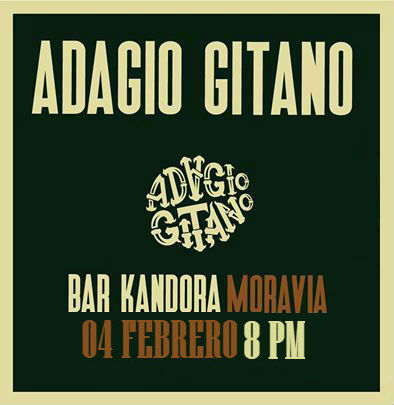
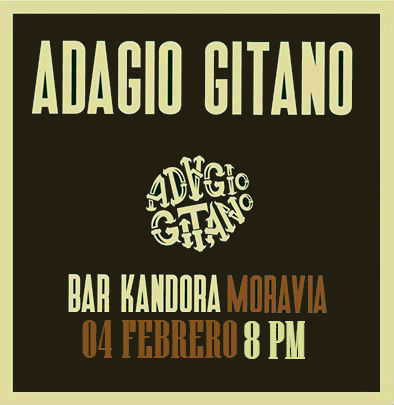
afiche/kandora.jpg se modifica para ser visto en cualquier dispositivo.

diff --git a/index.html b/index.html
@@ -117,13 +117,15 @@
         </div>
         <div class="row">
             <div class="col col-xs-12 col-sm-6">
-                <h3>Bar y Restaurane Kandora</h3>
-                <p><strong>Fecha:</strong> 04 de Febrero 2017</p>
-                <p><strong>Hora:</strong> 8 PM</p>
-
+                <img src="images/afiche/kandora.jpg" alt="Bar Kandora" class=" info-evento img-responsive">
+                <div class="text-center">
+                    <p><a href="https://goo.gl/maps/qBFkCDCm61D2"><strong>Ubicación</strong></a></p>    
+                </div>
             </div>
             <div class="col col-sm-6 hidden-xs">
-            	<iframe src="https://www.google.com/maps/embed?pb=!1m18!1m12!1m3!1d982.418724435223!2d-84.04923332720327!3d9.960983210333705!2m3!1f0!2f0!3f0!3m2!1i1024!2i768!4f13.1!3m3!1m2!1s0x8fa0e45d40000001%3A0x3f367be812c8568d!2sKandora+Bar!5e0!3m2!1ses!2ses!4v1484617061633" frameborder="0" style="border:0" allowfullscreen></iframe>
+                <div class="info-evento-map">
+                    <iframe src="https://www.google.com/maps/embed?pb=!1m18!1m12!1m3!1d982.418724435223!2d-84.04923332720327!3d9.960983210333705!2m3!1f0!2f0!3f0!3m2!1i1024!2i768!4f13.1!3m3!1m2!1s0x8fa0e45d40000001%3A0x3f367be812c8568d!2sKandora+Bar!5e0!3m2!1ses!2ses!4v1484617061633" frameborder="0" style="border:0" class="info-evento-map" allowfullscreen></iframe>
+                </div>
             </div>
         </div>
     </main>

diff --git a/css/style.css b/css/style.css
@@ -212,7 +212,13 @@ ol li {
 }
 
 .info-evento {
-    margin: 50px;
+    margin: 5px auto;
+    height: 450px;
+}
+
+.info-evento-map {
+    margin: 0 auto;
+    height: 488px;
 }
 
 .info-evento p {
@@ -327,7 +333,8 @@ footer {
         margin: -10% auto;
     }
     .info-evento {
-        margin: 20px;
+        margin: 0px;
+        height: 350px;
     }
     .img-ubicacion1 {
         height: 100px;
